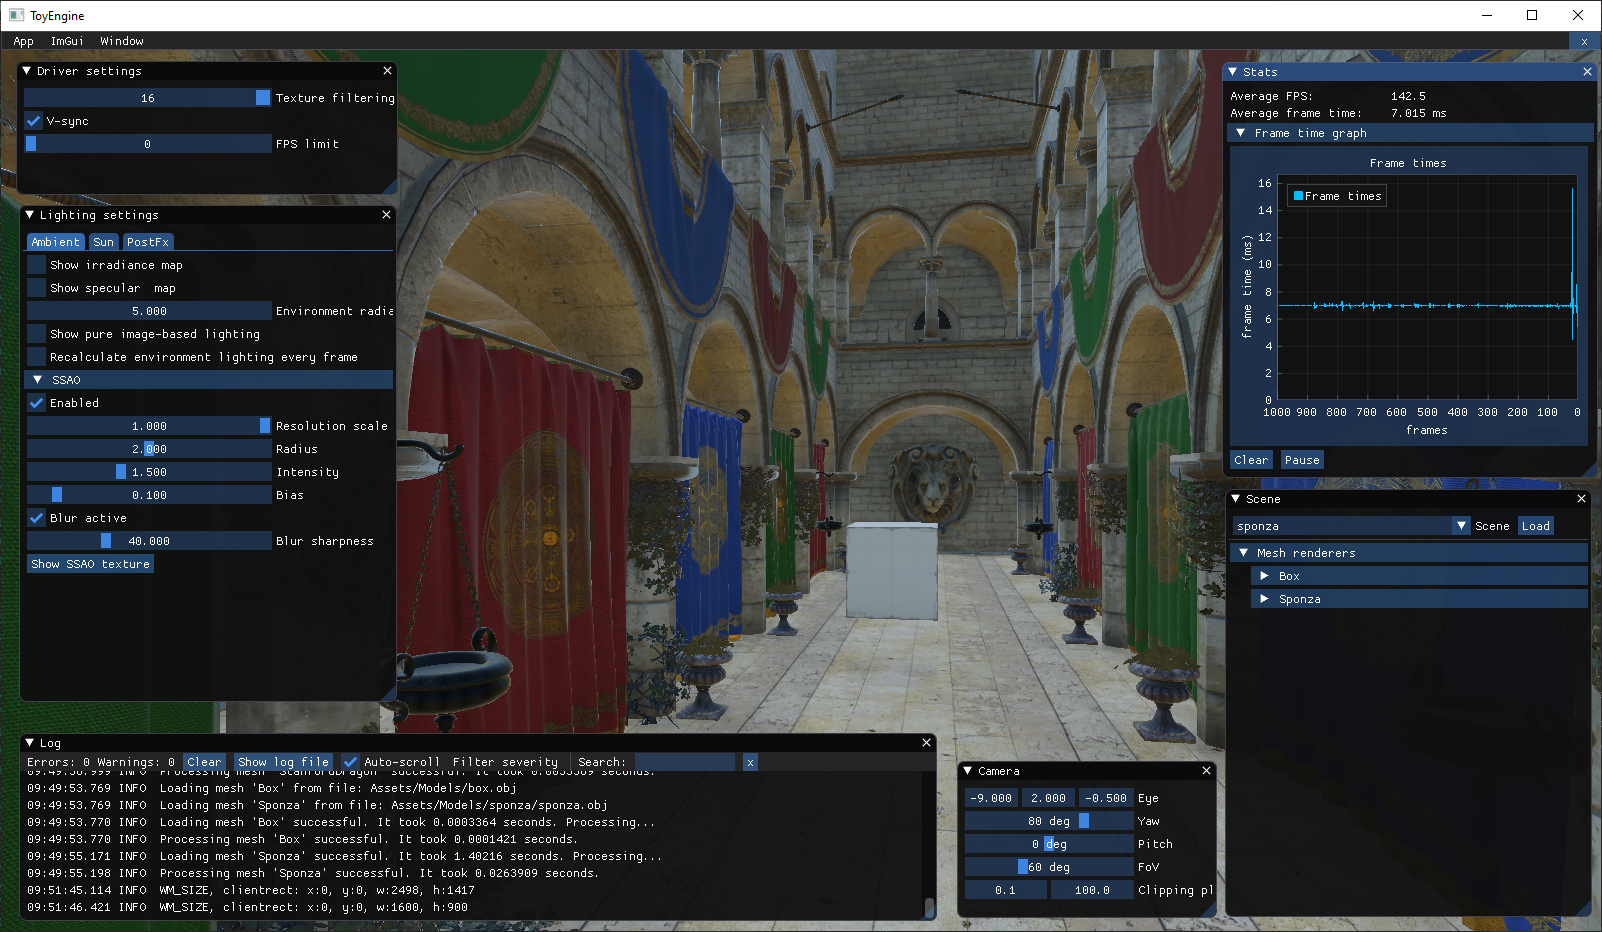
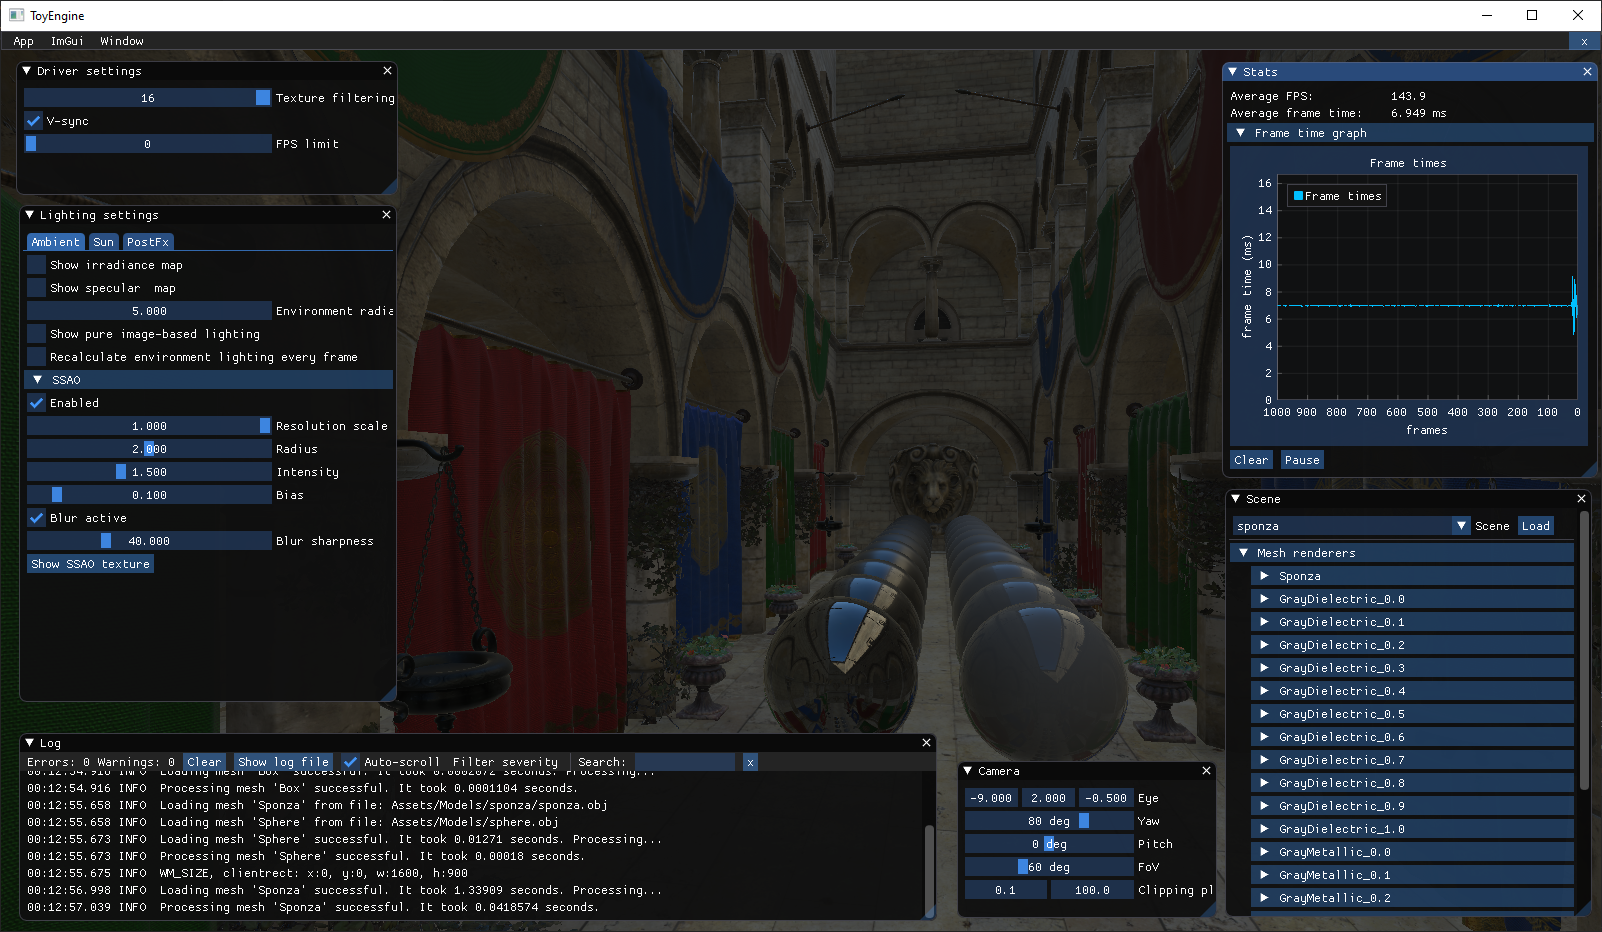
!U render world probe twice to avoid overly bright indirect lighting from sky on sponza

diff --git a/Source/Renderer/EnvironmentLightingSystem.cpp b/Source/Renderer/EnvironmentLightingSystem.cpp
@@ -7,6 +7,9 @@
 
 EnvironmentLightingSystem::EnvironmentLightingSystem() : skyProbe(XMVectorZero())
 {
+	currentIrradianceCube = skyProbe.getIrradianceCube();
+	currentSpecularCube = skyProbe.getSpecularCube();
+
 	ShaderSetDesc bakeShaderDesc("IrradianceBake", "Source/Shaders/EnvironmentLighting.shader");
 	bakeShaderDesc.shaderFuncNames[(int)ShaderStage::VS] = "DefaultPostFxVsFunc";
 	bakeShaderDesc.shaderFuncNames[(int)ShaderStage::PS] = "IrradianceBakePS";
@@ -50,24 +53,31 @@ void EnvironmentLightingSystem::bake(const ITexture* envi_cube)
 		std::unique_ptr<ITexture> worldEnviCube;
 		worldEnviCube.reset(drv->createTexture(worldEnviCubeDesc));
 
+		// Temp probe so indirect lighting in world probe won't be just sky
+		EnvironmentProbe tempProbe(worldProbe->getPosition());
+		tempProbe.renderEnvironmentCube(worldEnviCube.get());
+		tempProbe.bake(bakeResources, worldEnviCube.get(), radianceCutoff);
+		currentIrradianceCube = tempProbe.getIrradianceCube();
+		currentSpecularCube = tempProbe.getSpecularCube();
+
 		worldProbe->renderEnvironmentCube(worldEnviCube.get());
 		worldProbe->bake(bakeResources, worldEnviCube.get(), radianceCutoff);
+		currentIrradianceCube = worldProbe->getIrradianceCube();
+		currentSpecularCube = worldProbe->getSpecularCube();
 	}
 
 	dirty = false;
 }
 
+void EnvironmentLightingSystem::markDirty()
+{
+	dirty = true;
+	currentIrradianceCube = skyProbe.getIrradianceCube();
+	currentSpecularCube = skyProbe.getSpecularCube();
+}
+
 void EnvironmentLightingSystem::setWorldProbe(bool enabled, const XMVECTOR& pos)
 {
 	worldProbe.reset(enabled ? new EnvironmentProbe(pos) : nullptr);
-}
-
-ITexture* EnvironmentLightingSystem::getIrradianceCube() const
-{
-	return (worldProbe.get() != nullptr && !dirty) ? worldProbe->getIrradianceCube() : skyProbe.getIrradianceCube();
-}
-
-ITexture* EnvironmentLightingSystem::getSpecularCube() const
-{
-	return (worldProbe.get() != nullptr && !dirty) ? worldProbe->getSpecularCube() : skyProbe.getSpecularCube();
+	markDirty();
 }

diff --git a/Source/Renderer/EnvironmentLightingSystem.h b/Source/Renderer/EnvironmentLightingSystem.h
@@ -15,13 +15,13 @@ public:
 	EnvironmentLightingSystem();
 	void bake(const ITexture* envi_cube);
 	bool isDirty() const { return dirty; }
-	void markDirty() { dirty = true; }
+	void markDirty();
 	float getEnvironmentRadianceCutoff() const { return radianceCutoff; }
 	void setEnvironmentRadianceCutoff(float radiance_cutoff) { radianceCutoff = radiance_cutoff; markDirty(); }
 	void setWorldProbe(bool enabled, const XMVECTOR& pos = XMVectorZero());
 	bool hasWorldProbe() const { return worldProbe.get() != nullptr; }
-	ITexture* getIrradianceCube() const;
-	ITexture* getSpecularCube() const;
+	ITexture* getIrradianceCube() const { return currentIrradianceCube; };
+	ITexture* getSpecularCube() const { return currentSpecularCube; };
 	ITexture* getBrdfLut() const { return brdfLut.get(); };
 
 private:
@@ -30,6 +30,8 @@ private:
 	std::unique_ptr<ITexture> brdfLut;
 	ResIdHolder irradianceBakeShader, specularBakeShader, integrateBrdfShader;
 	ResIdHolder linearSampler;
+	ITexture* currentIrradianceCube;
+	ITexture* currentSpecularCube;
 	bool dirty = true;
 	float radianceCutoff = -1;
 };

diff --git a/Source/Renderer/EnvironmentProbe.h b/Source/Renderer/EnvironmentProbe.h
@@ -23,6 +23,7 @@ public:
 	void bake(const EnvironmentBakeResources& bake_resources, const ITexture* envi_cube, float radiance_cutoff);
 	ITexture* getIrradianceCube() const { return irradianceCube.get(); };
 	ITexture* getSpecularCube() const { return specularCube.get(); };
+	const XMVECTOR& getPosition() const { return position; }
 	static const unsigned int SPECULAR_CUBE_MIPS = 5;
 
 private:

diff --git a/Source/Renderer/WorldRenderer.cpp b/Source/Renderer/WorldRenderer.cpp
@@ -198,7 +198,6 @@ void WorldRenderer::setEnvironment(ITexture* panoramic_environment_map, float ra
 	sky->markDirty();
 	environmentRadianceCutoff = radiance_cutoff;
 	enviLightSystem->setWorldProbe(world_probe_enabled, world_probe_pos);
-	enviLightSystem->markDirty();
 }
 
 void WorldRenderer::resetEnvironment()
